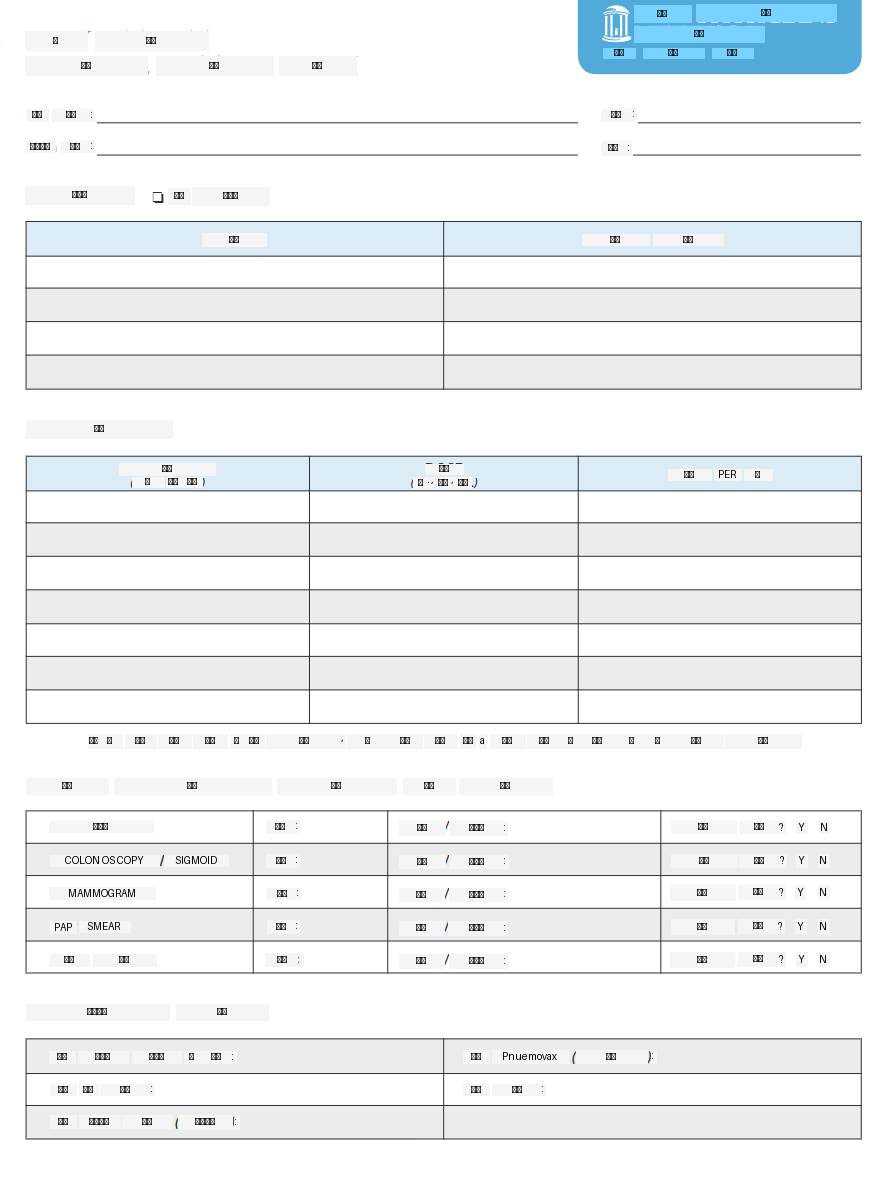
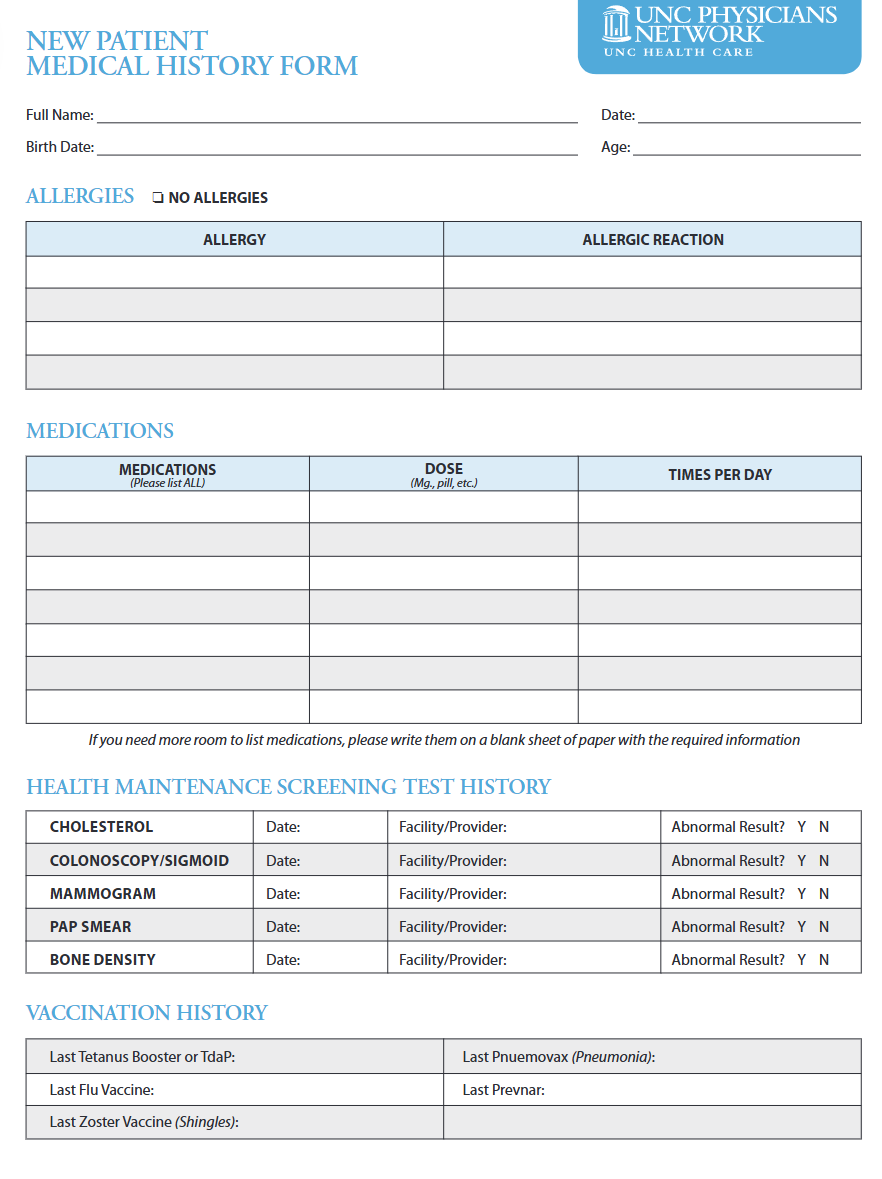
switch to Azure Google API Translator

diff --git a/backend/document_translator/main.py b/backend/document_translator/main.py
@@ -1,31 +1,55 @@
 from PIL import Image, ImageDraw, ImageFont, ImageOps, ImageEnhance
-from googletrans import Translator as GoogleTranslator
 from spellchecker import SpellChecker
 from font_map import LANGUAGE_FONT_MAP
 from google.cloud import vision
 import unicodedata
+import requests
+import json
+import time
+from functools import lru_cache
 import numpy as np
 import wordninja
-import deepl
-import easyocr
-import cv2
 import sys
 import os
 
-# Font configs
+# ----------------------------
+# Config
+# ----------------------------
+
+# Font folder
 FONT_DIR = os.path.join(os.path.dirname(__file__), "Noto")
+
 # Google Vision API Key Path
 os.environ["GOOGLE_APPLICATION_CREDENTIALS"] = r"C:\Users\Aishik C\Desktop\vision_key.json"
 
+# Azure Translator env vars (DO NOT hardcode)
+AZ_T_ENDPOINT = os.getenv("AZURE_TRANSLATOR_ENDPOINT", "").rstrip("/")
+AZ_T_KEY = os.getenv("AZURE_TRANSLATOR_KEY")
+AZ_T_REGION = os.getenv("AZURE_TRANSLATOR_REGION")
+
+
+# Lang helpers & debug
 def normalize_lang_code(code: str) -> str:
-    if not code: return "en"
+    """Your internal (font) normalization: collapse region variants to base 639-1."""
+    if not code:
+        return "en"
     c = code.lower().replace('_', '-')
-    # collapse region variants to base ISO 639-1
-    if c.startswith('zh'): return 'zh'   # zh, zh-cn, zh-tw → zh
+    if c.startswith('zh'): return 'zh'   # zh, zh-cn, zh-tw → zh (your font map logic)
     if c.startswith('pt'): return 'pt'
     if c.startswith('en'): return 'en'
-    if c.startswith('sr'): return 'sr'   # example
-    return c.split('-')[0]               # nn-NO → nn
+    if c.startswith('sr'): return 'sr'
+    return c.split('-')[0]               # e.g., nn-NO → nn
+
+def normalize_for_azure(code: str) -> str:
+    """Azure wants BCP‑47 (e.g., zh-Hans/zh-Hant)."""
+    if not code:
+        return "en"
+    c = code.lower()
+    if c in ("zh", "zh-cn", "zh-hans"):
+        return "zh-Hans"
+    if c in ("zh-tw", "zh-hk", "zh-hant"):
+        return "zh-Hant"
+    return c
 
 def debug_text(text: str, lang_code: str, font_file: str):
     print(f"[DBG] lang={lang_code} font={font_file}")
@@ -33,8 +57,10 @@ def debug_text(text: str, lang_code: str, font_file: str):
     codepoints = [f"U+{ord(c):04X}" for c in text]
     names = []
     for c in text:
-        try: names.append(unicodedata.name(c))
-        except: names.append('UNKNOWN')
+        try:
+            names.append( unicodedata.name(c) )
+        except:
+            names.append('UNKNOWN')
     print(f"[DBG] cps={codepoints}")
     print(f"[DBG] names={names}")
 
@@ -47,47 +73,38 @@ def get_font_by_lang(lang_code: str, size: int = 20):
     if os.path.isfile(font_path):
         return ImageFont.truetype(font_path, size)
     else:
-        print(f"[WARN] Font not found for {lang_code}, using default.")
+        print(f"[WARN] Font not found for {lang_code} → {font_name}, using default.")
         return ImageFont.load_default()
 
-# Preprocess inserted image for better translation
+
+# OCR
 def preprocess_image_for_ocr(image_path):
     image = Image.open(image_path).convert("RGB")
-
-    # Convert to grayscale
     gray_image = ImageOps.grayscale(image)
-
-    # Enhance contrast
     contrast_enhancer = ImageEnhance.Contrast(gray_image)
-    contrast_image = contrast_enhancer.enhance(2.5)  # Increase contrast
-
-    # Binarize
+    contrast_image = contrast_enhancer.enhance(2.5)
     threshold = 180
     binarized_image = contrast_image.point(lambda x: 0 if x < threshold else 255).convert("L")
-
     return binarized_image
 
-# OCR Processing with Google Vision API
 def perform_ocr_with_google_vision(image_path):
     client = vision.ImageAnnotatorClient()
-    
     with open(image_path, "rb") as image_file:
         content = image_file.read()
-        
     image = vision.Image(content=content)
     response = client.text_detection(image=image)
     annotations = response.text_annotations
-    
+
     extracted_text_boxes = []
-    
     if annotations:
         for annotation in annotations[1:]:
             vertices = [(v.x, v.y) for v in annotation.bounding_poly.vertices]
             text = annotation.description
             extracted_text_boxes.append((vertices, text))
-    
     return extracted_text_boxes
-            
+
+
+# Text layout/drawing
 def get_font(image, text, width, height, lang_code):
     font_size = None
     font = None
@@ -146,11 +163,7 @@ def get_background_color(image, x_min, y_min, x_max, y_max):
     return add_discoloration(background_color, 40)
 
 def get_text_fill_color(background_color):
-    luminance = (
-        0.299 * background_color[0]
-        + 0.587 * background_color[1]
-        + 0.114 * background_color[2]
-    ) / 255
+    luminance = (0.299 * background_color[0] + 0.587 * background_color[1] + 0.114 * background_color[2]) / 255
     return "black" if luminance > 0.5 else "white"
 
 def replace_text_with_translation(image_path, translated_texts, text_boxes, lang_code):
@@ -175,7 +188,7 @@ def replace_text_with_translation(image_path, translated_texts, text_boxes, lang
 
         font_name = LANGUAGE_FONT_MAP.get(lang_code, 'NotoSans-Regular.ttf')
         debug_text(translated, lang_code, font_name)
-        
+
         font, x_offset, y_offset = get_font(image, translated, x_max - x_min, y_max - y_min, lang_code)
 
         draw.text(
@@ -187,26 +200,84 @@ def replace_text_with_translation(image_path, translated_texts, text_boxes, lang
 
     return image
 
+
+# Azure Translator
+def _azure_headers():
+    return {
+        "Ocp-Apim-Subscription-Key": AZ_T_KEY,
+        "Ocp-Apim-Subscription-Region": AZ_T_REGION,
+        "Content-Type": "application/json"
+    }
+
+@lru_cache(maxsize=1)
+def azure_supported_targets():
+    """Fetch supported target languages once from Azure."""
+    if not AZ_T_ENDPOINT:
+        return {}
+    url = f"{AZ_T_ENDPOINT}/languages?api-version=3.0&scope=translation"
+    r = requests.get(url, timeout=10)
+    r.raise_for_status()
+    data = r.json().get("translation", {})
+    return {code.lower(): meta.get("name", "") for code, meta in data.items()}
+
+def azure_translate_batch(texts, src="en", dest="fr", max_chunk=50, sleep_sec=0.05):
+    """
+    Translate list[str] via Azure Translator REST API.
+    Returns list[str] of same length.
+    """
+    if not (AZ_T_ENDPOINT and AZ_T_KEY and AZ_T_REGION):
+        raise RuntimeError("Azure env vars missing: AZURE_TRANSLATOR_KEY / _REGION / _ENDPOINT")
+
+    dest_bcp = normalize_for_azure(dest)
+    supported = azure_supported_targets()
+    if dest_bcp.lower() not in supported:
+        print(f"[WARN] Azure does not list target='{dest_bcp}'. Returning originals.")
+        return texts
+
+    url = f"{AZ_T_ENDPOINT}/translate?api-version=3.0&from={src}&to={dest_bcp}"
+    out = []
+    i = 0
+    while i < len(texts):
+        chunk = texts[i:i+max_chunk]
+        body = [{"Text": t} for t in chunk]
+        try:
+            resp = requests.post(url, headers=_azure_headers(), data=json.dumps(body), timeout=20)
+            if resp.status_code == 429:
+                time.sleep(1.0)
+                continue
+            resp.raise_for_status()
+            data = resp.json()
+            for item in data:
+                if item.get("translations"):
+                    out.append(item["translations"][0]["text"])
+                else:
+                    out.append("")
+        except Exception as e:
+            print(f"[ERROR] Azure translate chunk failed: {e}")
+            out.extend(chunk)  # fallback to originals
+        i += max_chunk
+        time.sleep(sleep_sec)
+    return out
+
+
+# Main pipeline
 def translate_image_pipeline(image_path, output_path, target_lang, font_map):
     # OCR
     extracted_text_boxes = perform_ocr_with_google_vision(image_path)
 
-    # Get font fallback
-    selected_lang_code = target_lang.lower()
-    if selected_lang_code not in font_map:
-        selected_lang_code = "en"
+    # Font selection code
+    norm = normalize_lang_code(target_lang)
+    selected_lang_code = norm if norm in font_map else "en"
 
-    # DeepL setup
-    deepl_translator = deepl.Translator(os.environ["DEEPL_API_KEY"])
-    deepl_supported = {lang.code.lower(): lang.name for lang in deepl_translator.get_target_languages()}
-
-    # Google fallback setup
-    google_translator = GoogleTranslator()
+    # Collect texts to translate (skip junk/empty), cache by (lang, text)
     translated_texts = []
+    src_texts = []
+    index_map = []  # (idx_in_boxes, cache_key, final_text)
     cache = {}
 
     spell = SpellChecker()
-    for _, text in extracted_text_boxes:
+
+    for idx, (_, text) in enumerate(extracted_text_boxes):
         if not text:
             translated_texts.append(None)
             continue
@@ -214,64 +285,59 @@ def translate_image_pipeline(image_path, output_path, target_lang, font_map):
             print(f"[SKIP] Skipped junk: {text}")
             translated_texts.append(None)
             continue
-        
-        # Spell-correct
+
+        # light cleanup of English source
         words = text.split()
         corrected_words = [spell.correction(w) or w for w in words]
         corrected_text = " ".join(corrected_words)
 
-        # Wordninja split long garbled words
         split_words = []
-        for word in corrected_text.split():
-            if len(word) > 10:
-                split_words.extend(wordninja.split(word))
-            else:
-                split_words.append(word)
+        for w in corrected_text.split():
+            split_words.extend(wordninja.split(w) if len(w) > 10 else [w])
         final_text = " ".join(split_words)
 
-        # Cache
-        if final_text in cache:
-            translated_texts.append(cache[final_text])
+        ck = (norm, final_text)
+        if ck in cache:
+            translated_texts.append(cache[ck])
             continue
 
-        # Translate
+        index_map.append((idx, ck, final_text))
+        src_texts.append(final_text)
+        translated_texts.append(None)  # placeholder
+
+    # Call Azure in batch (fast + reliable)
+    if src_texts:
         try:
-            if target_lang.lower() in deepl_supported:
-                result = deepl_translator.translate_text(
-                    final_text,
-                    source_lang="EN",
-                    target_lang=target_lang.upper()
-                )
-                translated = result.text
-                print(f"[DeepL] {final_text} → {translated}")
-            else:
-                result = google_translator.translate(final_text, src="en", dest=target_lang)
-                translated = result.text
-                print(f"[Google] {final_text} → {translated}")
-
-            cache[final_text] = translated
-            translated_texts.append(translated)
-
+            azure_out = azure_translate_batch(src_texts, src="en", dest=norm)
         except Exception as e:
-            print(f"[ERROR] Failed to translate '{final_text}': {e}")
-            translated_texts.append(None)
+            print(f"[ERROR] Azure call failed: {e}")
+            azure_out = src_texts  # fallback: keep originals
 
-    # Replace and draw text
+        for (idx, ck, _src), tr in zip(index_map, azure_out):
+            cache[ck] = tr
+            translated_texts[idx] = tr
+
+    # Draw
     image = replace_text_with_translation(
         image_path, translated_texts, extracted_text_boxes, selected_lang_code
     )
-
     image.save(output_path)
-    
-# Script Setup
 
+
+# Script entry
 if __name__ == "__main__":
     input_folder = "input"
     output_folder = "output"
     target_lang = sys.argv[1] if len(sys.argv) > 1 else "en"
 
+    # sanity check for Azure env
+    if not (AZ_T_ENDPOINT and AZ_T_KEY and AZ_T_REGION):
+        raise SystemExit("Set AZURE_TRANSLATOR_KEY, AZURE_TRANSLATOR_ENDPOINT, AZURE_TRANSLATOR_REGION and restart terminal.")
+
     files = os.listdir(input_folder)
-    image_files = [file for file in files if file.endswith((".jpg", ".jpeg", ".png"))]
+    image_files = [file for file in files if file.lower().endswith((".jpg", ".jpeg", ".png"))]
+
+    os.makedirs(output_folder, exist_ok=True)
 
     for filename in image_files:
         print(f'[INFO] Processing {filename}...')
